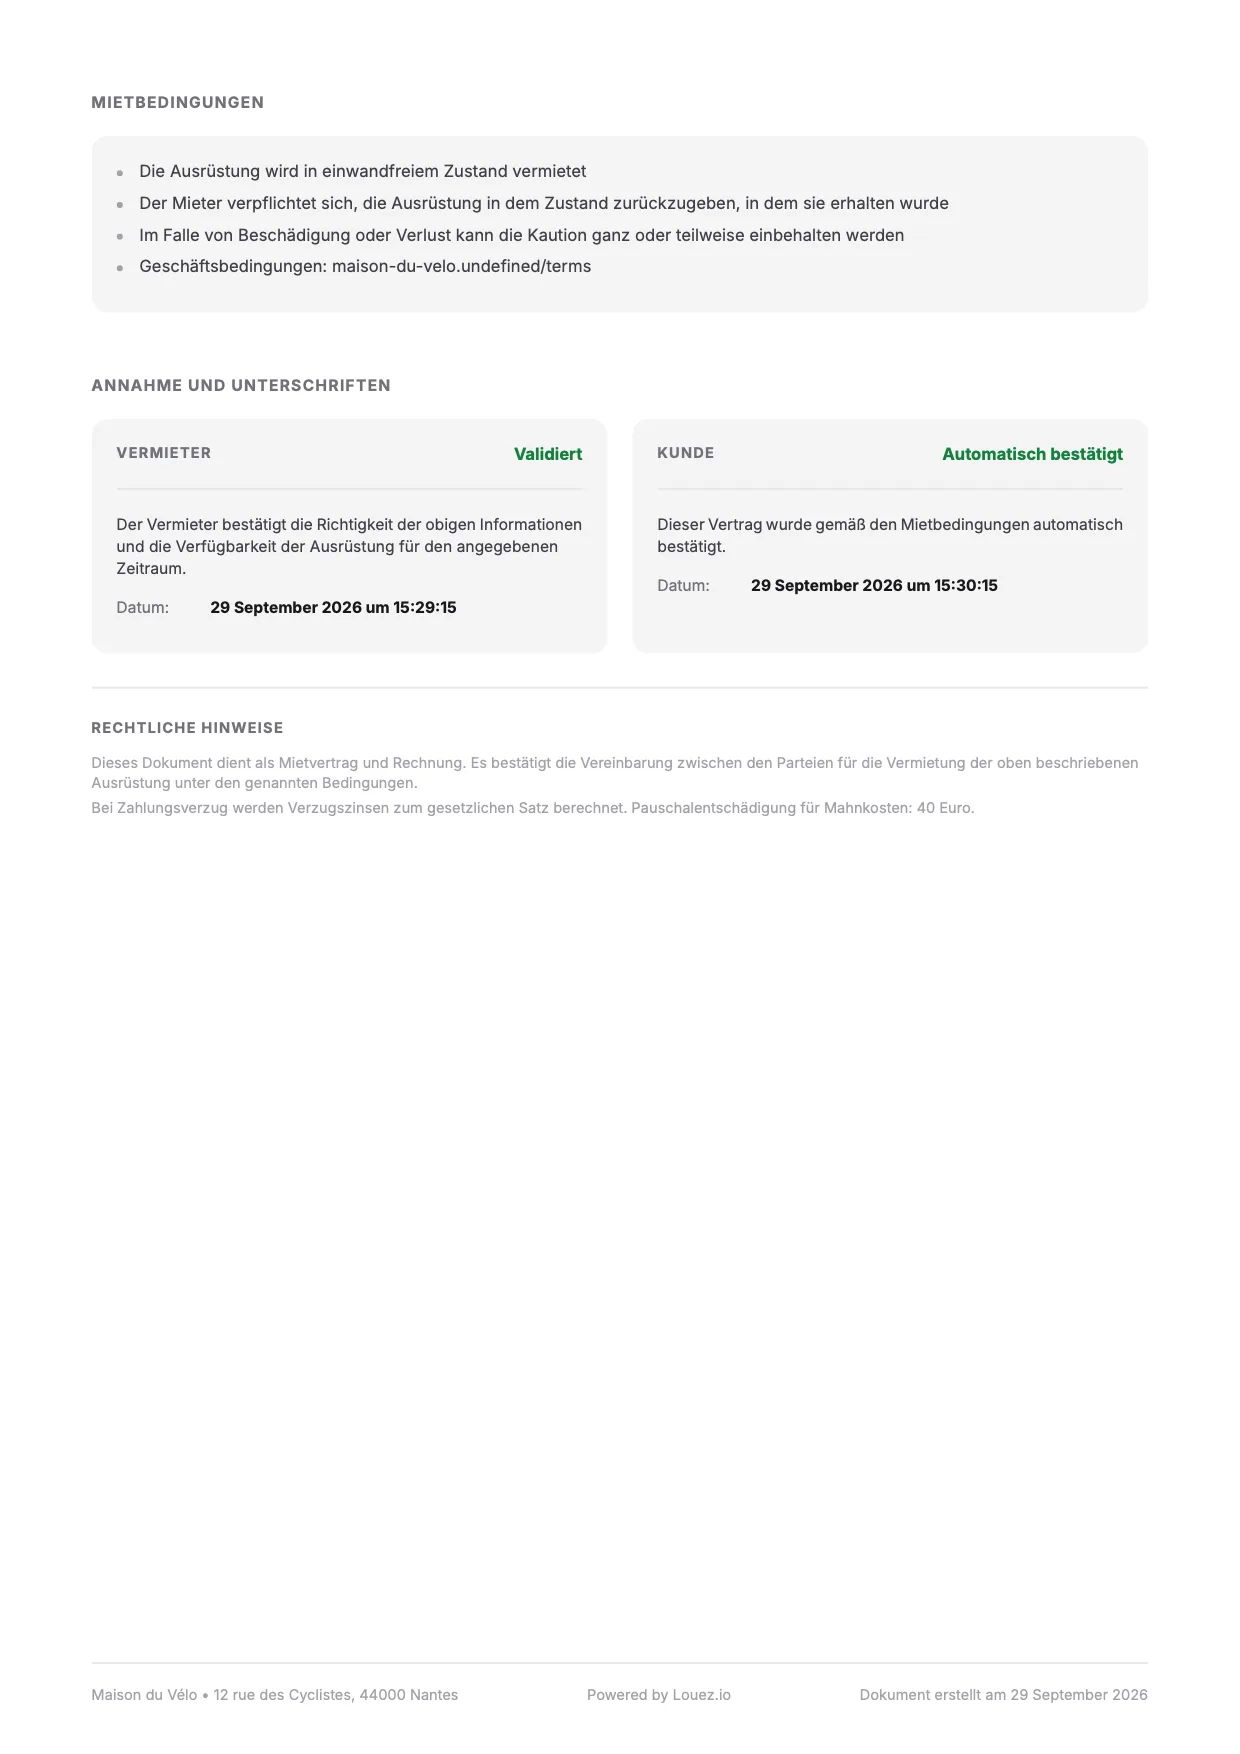
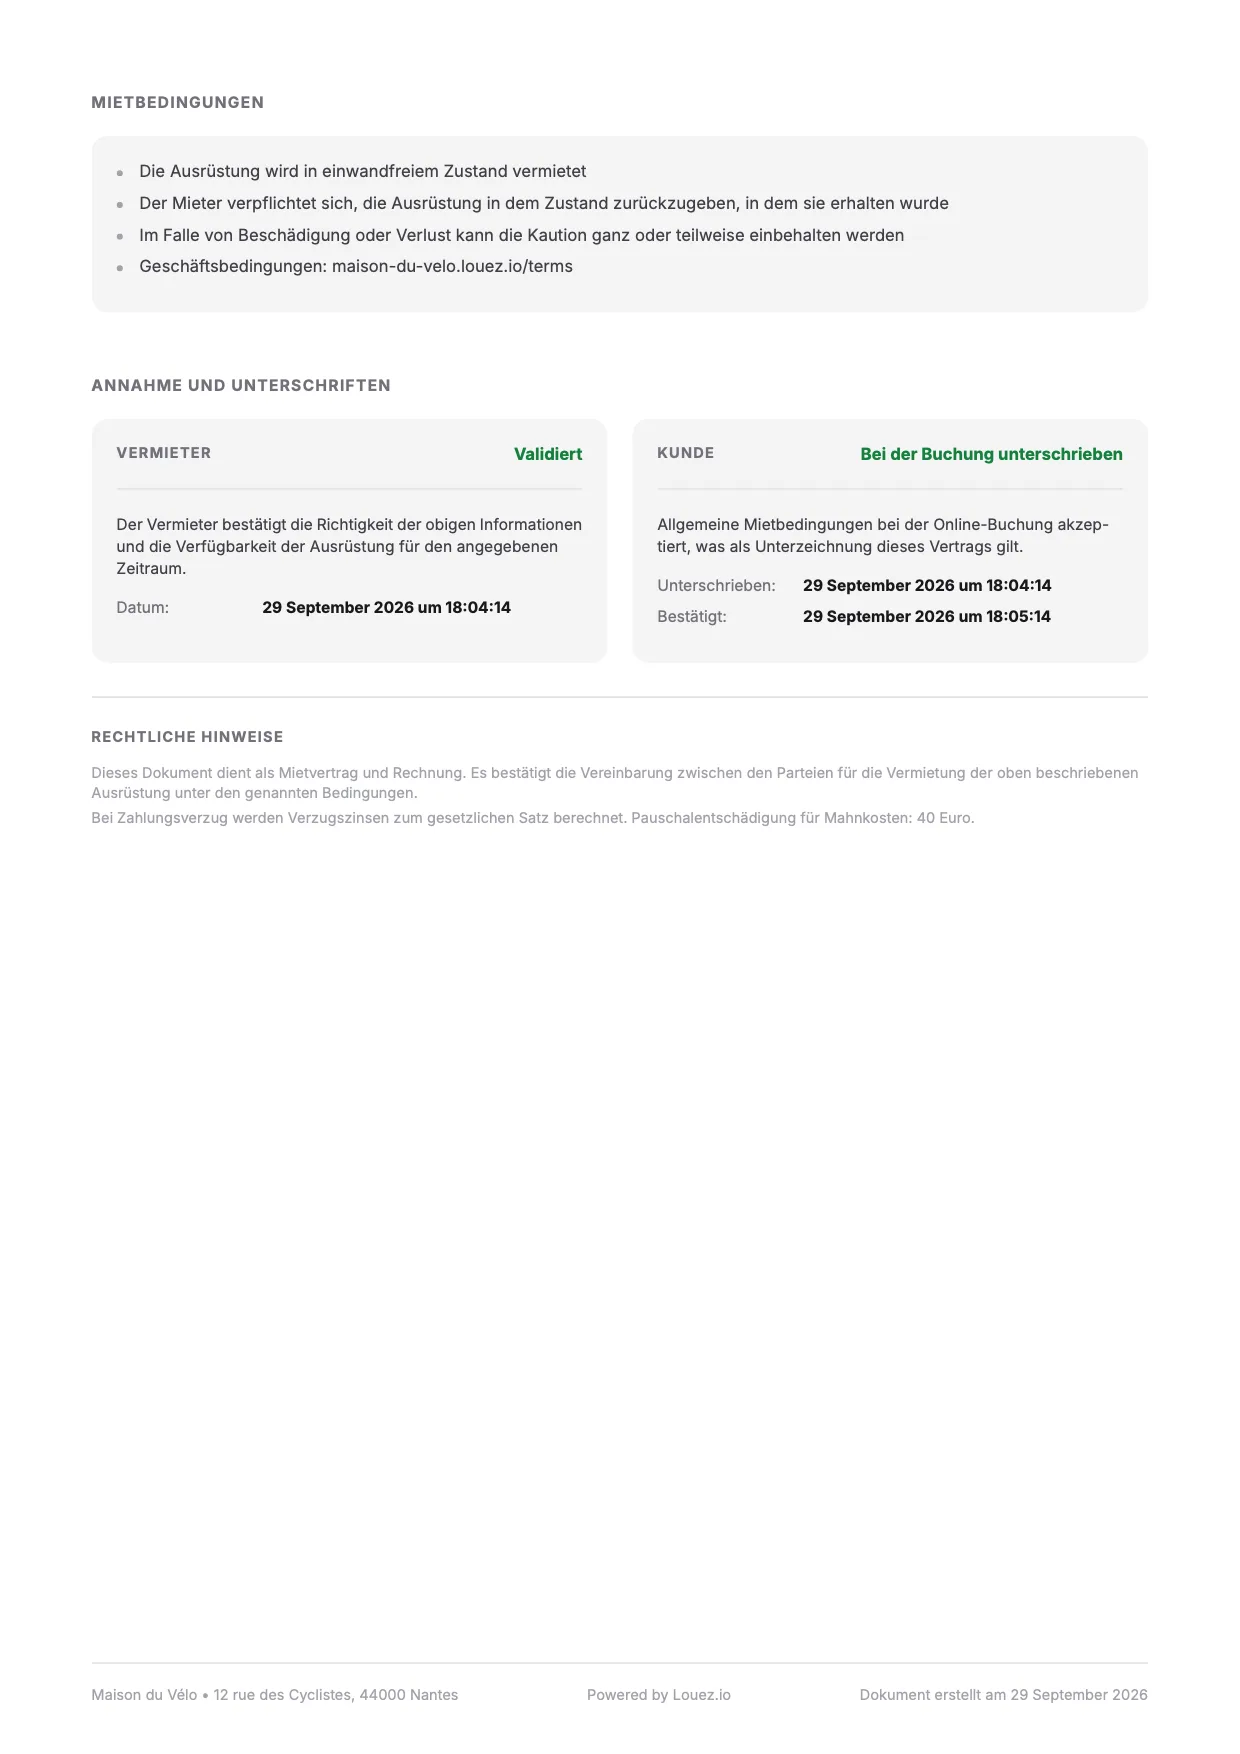
feat(contract): print storefront bookings as signed at booking
A storefront checkout cannot be paid without accepting the shop's rental
terms, and that acceptance is the customer's signature. The contract of
an online booking now reads "Signé à la réservation", with the booking
date ("Signé le") and, once validated, the validation date ("Validé le").
A drawn customer signature keeps its wording, date and IP; other
automatic validations (bookings created by the shop, marketplace) still
read "Validé automatiquement". Labels in the 8 languages; the date label
column is wider so "Unterschrieben:" or "Convalidato il:" fit on one line.

The document previews gain a signed-at-booking contract, and the demo
contract, an online booking, shows the new block. Its images also printed
the terms link as "maison-du-velo.undefined/terms": the build has no app
domain, so the script now sets louez.io.

diff --git a/apps/web/lib/pdf/contract.tsx b/apps/web/lib/pdf/contract.tsx
@@ -98,6 +98,10 @@ export interface ContractTranslations {
     customerText: string;
     automatic: string;
     automaticText: string;
+    atBooking: string;
+    atBookingText: string;
+    signedOnLabel: string;
+    validatedOnLabel: string;
     dateLabel: string;
     ipLabel: string;
   };
@@ -199,6 +203,8 @@ interface Reservation {
   taxRate?: string | null;
   signedAt?: Date | null;
   automaticContractValidation?: boolean;
+  /** Booked on the storefront, whose checkout requires accepting the rental terms: that is the signature. */
+  signedAtBooking?: boolean;
   signatureIp?: string | null;
   createdAt: Date;
   customer: Customer;
@@ -276,6 +282,15 @@ export function ContractDocument({
     formatStoreDate(date, timezone, "PRECISE_DATETIME", locale);
   const formatShortDate = (date: Date) => formatStoreDate(date, timezone, "SHORT_DATE", locale);
   const formatDateOnly = (date: Date) => formatStoreDate(date, timezone, "MEDIUM_DATE", locale);
+
+  const customerSignature =
+    reservation.signedAt && !reservation.automaticContractValidation
+      ? "signed"
+      : reservation.signedAtBooking
+        ? "atBooking"
+        : reservation.automaticContractValidation
+          ? "automatic"
+          : "pending";
 
   return (
     <Document>
@@ -640,39 +655,66 @@ export function ContractDocument({
               </View>
             </View>
 
-            {/* Automatic validation is distinct from a customer signature. */}
+            {/*
+              A customer who drew a signature keeps it. A storefront booking was signed by accepting
+              the rental terms at checkout, then validated. Other automatic validations are not a
+              customer signature.
+            */}
             <View style={styles.signatureBox}>
               <View style={styles.signatureHeader}>
                 <Text style={styles.signatureTitle}>{t.parties.customer}</Text>
                 <Text
                   style={
-                    reservation.signedAt
-                      ? styles.signatureStatusText
-                      : styles.signatureStatusPendingText
+                    customerSignature === "pending"
+                      ? styles.signatureStatusPendingText
+                      : styles.signatureStatusText
                   }
                 >
-                  {reservation.automaticContractValidation
-                    ? t.signature.automatic
-                    : reservation.signedAt
-                      ? t.signature.signed
-                      : t.signature.pending}
+                  {customerSignature === "atBooking"
+                    ? t.signature.atBooking
+                    : customerSignature === "automatic"
+                      ? t.signature.automatic
+                      : customerSignature === "signed"
+                        ? t.signature.signed
+                        : t.signature.pending}
                 </Text>
               </View>
               <View style={styles.signatureContent}>
                 <Text style={styles.signatureText}>
-                  {reservation.automaticContractValidation
-                    ? t.signature.automaticText
-                    : t.signature.customerText}
+                  {customerSignature === "atBooking"
+                    ? t.signature.atBookingText
+                    : customerSignature === "automatic"
+                      ? t.signature.automaticText
+                      : t.signature.customerText}
                 </Text>
-                {reservation.signedAt && (
-                  <View style={styles.signatureDateRow}>
-                    <Text style={styles.signatureDateLabel}>{t.signature.dateLabel}</Text>
-                    <Text style={styles.signatureDate}>
-                      {formatDateTimePrecise(reservation.signedAt)}
-                    </Text>
-                  </View>
+                {customerSignature === "atBooking" ? (
+                  <>
+                    <View style={styles.signatureDateRow}>
+                      <Text style={styles.signatureDateLabel}>{t.signature.signedOnLabel}</Text>
+                      <Text style={styles.signatureDate}>
+                        {formatDateTimePrecise(reservation.createdAt)}
+                      </Text>
+                    </View>
+                    {reservation.signedAt && (
+                      <View style={styles.signatureDateRow}>
+                        <Text style={styles.signatureDateLabel}>{t.signature.validatedOnLabel}</Text>
+                        <Text style={styles.signatureDate}>
+                          {formatDateTimePrecise(reservation.signedAt)}
+                        </Text>
+                      </View>
+                    )}
+                  </>
+                ) : (
+                  reservation.signedAt && (
+                    <View style={styles.signatureDateRow}>
+                      <Text style={styles.signatureDateLabel}>{t.signature.dateLabel}</Text>
+                      <Text style={styles.signatureDate}>
+                        {formatDateTimePrecise(reservation.signedAt)}
+                      </Text>
+                    </View>
+                  )
                 )}
-                {reservation.signedAt && reservation.signatureIp && (
+                {customerSignature === "signed" && reservation.signatureIp && (
                   <Text style={styles.signatureIp}>
                     {t.signature.ipLabel} {reservation.signatureIp}
                   </Text>

diff --git a/apps/web/lib/pdf/contract-validation.test.ts b/apps/web/lib/pdf/contract-validation.test.ts
@@ -39,7 +39,7 @@ const textOf = (node: ReactNode): string => {
   return "";
 };
 
-const renderText = async (automatic: boolean) => {
+const renderText = async (automatic: boolean, signedAtBooking = false) => {
   const { ContractDocument } = await import("./contract");
   return textOf(
     ContractDocument({
@@ -60,6 +60,7 @@ const renderText = async (automatic: boolean) => {
         createdAt: new Date("2026-09-08T09:00:00Z"),
         signedAt: new Date("2026-09-08T09:00:00Z"),
         automaticContractValidation: automatic,
+        signedAtBooking,
         subtotalAmount: "20",
         totalAmount: "20",
         depositAmount: "0",
@@ -86,6 +87,22 @@ test("automatic validation uses factual wording instead of a customer signature 
   assert.ok(text.includes(fr.contract.signature.automatic));
   assert.ok(text.includes(fr.contract.signature.automaticText));
   assert.ok(!text.includes(fr.contract.signature.customerText));
+});
+
+test("a storefront booking reads as signed at booking, with its booking and validation dates", async () => {
+  const text = await renderText(true, true);
+  assert.ok(text.includes(fr.contract.signature.atBooking));
+  assert.ok(text.includes(fr.contract.signature.atBookingText));
+  assert.ok(text.includes(fr.contract.signature.signedOnLabel));
+  assert.ok(text.includes(fr.contract.signature.validatedOnLabel));
+  assert.ok(!text.includes(fr.contract.signature.automaticText));
+  assert.ok(!text.includes(fr.contract.signature.customerText));
+});
+
+test("a drawn customer signature outranks the booking acceptance", async () => {
+  const text = await renderText(false, true);
+  assert.ok(text.includes(fr.contract.signature.customerText));
+  assert.ok(!text.includes(fr.contract.signature.atBookingText));
 });
 
 test("existing customer signatures retain their original wording", async () => {

diff --git a/apps/web/lib/document-previews/pdf-document-previews.tsx b/apps/web/lib/document-previews/pdf-document-previews.tsx
@@ -239,6 +239,43 @@ export const PDF_DOCUMENT_PREVIEWS: readonly PdfDocumentPreview[] = [
     },
   }),
   pdf({
+    id: "contract-at-booking",
+    title: "Contrat signé à la réservation",
+    description:
+      "Réservation faite sur la boutique : conditions acceptées en réservant, contrat validé au paiement.",
+    fileName: "contrat-signe-reservation",
+    compose: ({ store, locale: rawLocale }) => {
+      const locale = toPdfLocale(rawLocale);
+      return ContractDocument({
+        reservation: {
+          ...contractReservation,
+          customer: individualCustomer,
+          signedAtBooking: true,
+          automaticContractValidation: true,
+          signedAt: new Date("2026-07-29T09:13:00.000Z"),
+          payments: [
+            {
+              id: "pay-1",
+              amount: previewReservation.total.toFixed(2),
+              type: "rental",
+              method: "stripe",
+              status: "completed",
+              paidAt: new Date("2026-07-29T09:13:00.000Z"),
+              createdAt,
+            },
+          ],
+        },
+        store: contractStore(store),
+        document: { number: "2026-0043", generatedAt },
+        locale,
+        translations: contractTranslations(locale),
+        currency: store.currency,
+        timezone: store.timezone,
+        fullCgvHtml: null,
+      });
+    },
+  }),
+  pdf({
     id: "contract-signed",
     title: "Contrat signé, client pro, CGV intégrées",
     description: "Contrat signé en ligne par une entreprise, paiements encaissés et CGV en annexe.",

diff --git a/apps/web/lib/landing-demos/contracts.ts b/apps/web/lib/landing-demos/contracts.ts
@@ -69,6 +69,8 @@ export const createDemoContractProps = (
     reservation: {
       ...reservation,
       automaticContractValidation: true,
+      // The demo reservation was booked on the storefront.
+      signedAtBooking: true,
       signedAt: validation?.createdAt ?? reservation.createdAt,
       signatureIp: null,
       items: (reservation.items ?? []).map((item) => ({

diff --git a/apps/web/lib/pdf/generate.ts b/apps/web/lib/pdf/generate.ts
@@ -202,6 +202,7 @@ export async function generateContract({
         taxRate: reservation.taxRate,
         signedAt: reservation.signedAt,
         automaticContractValidation,
+        signedAtBooking: reservation.source === "online",
         signatureIp: reservation.signatureIp,
         createdAt: reservation.createdAt,
         customer: {

diff --git a/apps/web/lib/pdf/styles.ts b/apps/web/lib/pdf/styles.ts
@@ -521,7 +521,8 @@ export function createContractStyles(_primaryColor: string = "#0066FF") {
     signatureDateLabel: {
       fontSize: 7.5,
       color: c.muted,
-      width: 45,
+      // Wide enough for "Unterschrieben:", "Convalidato il:" and the like on one line.
+      width: 70,
     },
     signatureDate: {
       fontSize: 7.5,

diff --git a/docs/landing-demos.md b/docs/landing-demos.md
@@ -189,6 +189,18 @@ L’app n’a pas de lecteur PDF : « Télécharger le contrat » ouvre un ongle
 
 Le Dockerfile lance ce script dans l’étape `builder`, avant `next build`, après avoir installé `poppler-utils` : les images et le bundle portent la date du build, et les dates restent actuelles à chaque déploiement. Les images commitées ne servent qu’au développement local.
 
+Le build ne connaît pas `NEXT_PUBLIC_APP_DOMAIN`, lue à l’exécution : le script la fixe à `louez.io`, sinon le lien des conditions s’imprimait `maison-du-velo.undefined/terms`.
+
+### Signature du client sur le contrat
+
+Le bloc « Client » du contrat distingue trois cas :
+
+- une réservation faite sur la boutique (`source: "online"`), dont le paiement exige d’accepter les conditions (`acceptCgv`), est « Signé à la réservation » : l’acceptation vaut signature. Le bloc imprime « Signé le » (création de la réservation) et, une fois le contrat validé, « Validé le » ;
+- un client qui a réellement signé (hors validation automatique) garde « Signé », avec la date et l’IP ;
+- les autres validations automatiques (réservation créée par le loueur, marketplace) restent « Validé automatiquement ».
+
+Le dossier de démonstration est une réservation en ligne. L’aperçu `contract-at-booking` montre ce cas.
+
 ### Police des PDF
 
 Contrats, factures et rapports d’état des lieux embarquent Inter 4.1 (`public/fonts/pdf/`, licence SIL OFL dans `OFL.txt`), enregistrée par `lib/pdf/fonts.ts`. Helvetica, la police intégrée de react-pdf, n’a pas les lettres ą, ę, ł ou ś : les documents polonais et les noms comme « Łukasz » s’imprimaient cassés (« wrze[nia » pour « września »). Le fichier est cherché sous `public/` depuis `apps/web` (développement, scripts) et depuis la racine du monorepo (image standalone). `lib/pdf/fonts.test.ts` rend chaque PDF d’aperçu et vérifie qu’il embarque Inter et plus Helvetica.
